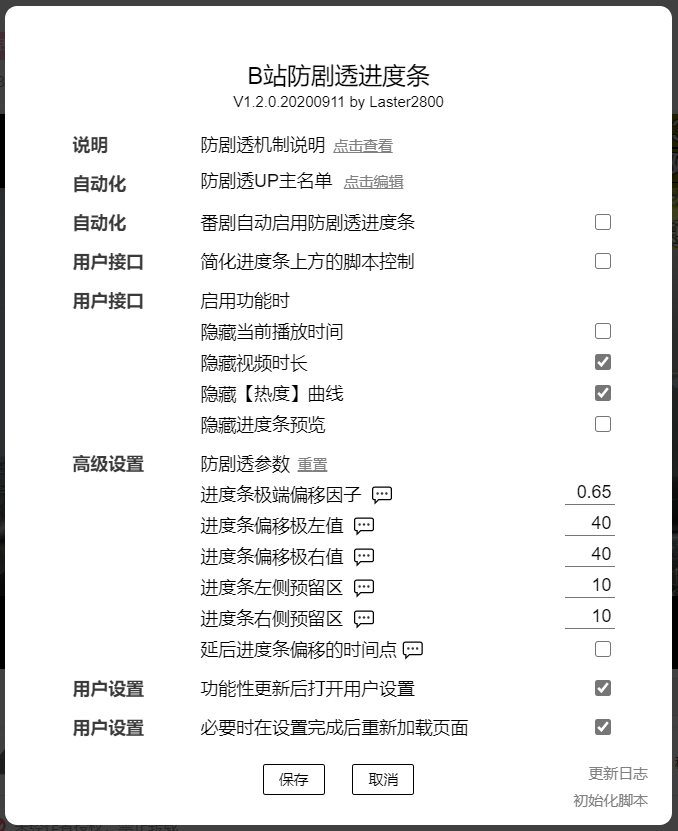
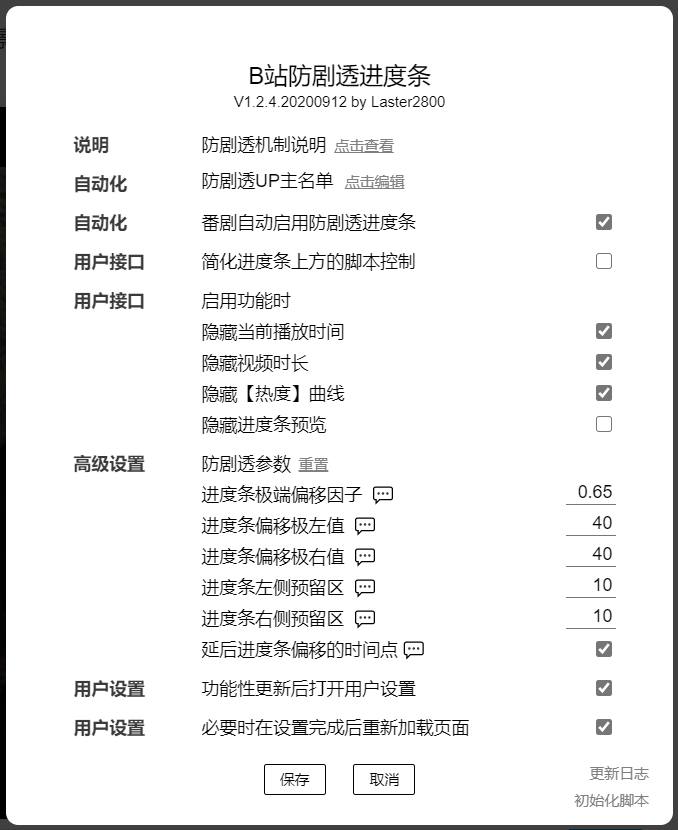
B站防剧透进度条
* 默认隐藏当前播放时间
* 优化代码结构
* README 提示将【进度条】加入屏蔽词

diff --git a/BilibiliNoSpoilProgressBar/BilibiliNoSpoilProgressBar.js b/BilibiliNoSpoilProgressBar/BilibiliNoSpoilProgressBar.js
@@ -1,6 +1,6 @@
 // ==UserScript==
 // @name            B站防剧透进度条
-// @version         1.2.2.20200911
+// @version         1.2.3.20200912
 // @namespace       laster2800
 // @author          Laster2800
 // @description     看比赛、看番总是被进度条剧透？装上这个脚本再也不用担心这些问题了
@@ -141,11 +141,11 @@
   const gm = {
     id: 'gm411092',
     configVersion: GM_getValue('configVersion'),
-    configUpdate: 20200911.1,
+    configUpdate: 20200912,
     config: {
       bangumiEnabled: false,
       simpleScriptControl: false,
-      disableCurrentPoint: false,
+      disableCurrentPoint: true,
       disableDuration: true,
       disablePbp: true,
       disablePreview: false,
@@ -161,7 +161,7 @@
     configMap: {
       bangumiEnabled: { attr: 'checked', needNotReload: true },
       simpleScriptControl: { attr: 'checked' },
-      disableCurrentPoint: { attr: 'checked' },
+      disableCurrentPoint: { attr: 'checked', configVersion: 20200912 },
       disableDuration: { attr: 'checked' },
       disablePbp: { attr: 'checked' },
       disablePreview: { attr: 'checked' },
@@ -344,8 +344,13 @@
 
           // 1.1.0.20200911
           if (gm.configVersion < 20200911) {
-            GM_setValue('offsetLeft', gm.const.defaultOffsetLeft)
-            GM_setValue('offsetRight', gm.const.defaultOffsetRight)
+            GM_setValue('offsetLeft', 40)
+            GM_setValue('offsetRight', 40)
+          }
+
+          // 1.2.4.20200912
+          if (gm.configVersion < 20200912) {
+            GM_setValue('disableCurrentPoint', true)
           }
         }
       }
@@ -2041,7 +2046,7 @@
     }
   }
 
-  (async function() {
+  (function() {
     const script = new Script()
     const webpage = new Webpage()
 

diff --git a/BilibiliNoSpoilProgressBar/README.md b/BilibiliNoSpoilProgressBar/README.md
@@ -32,6 +32,10 @@
 
 在设置窗口中已经提供了详细的说明，但前提是理解上面关于防剧透原理的说明。
 
+## 补充说明
+
+建议在官方的弹幕屏蔽列表中加入屏蔽词【进度条】，因为相关弹幕具有很强的剧透性。
+
 ## 截图
 
 * 设置入口
